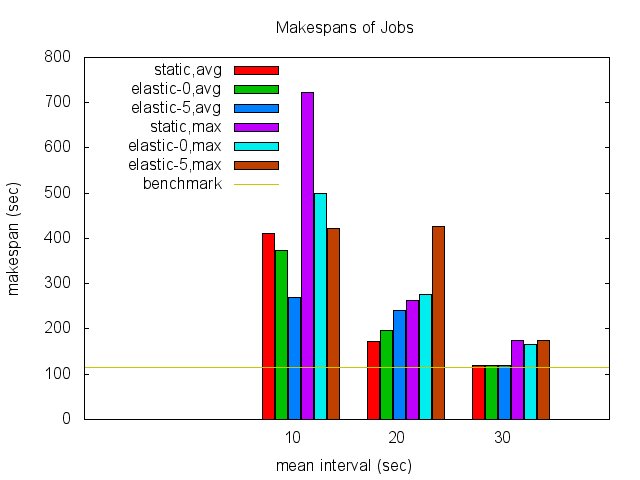
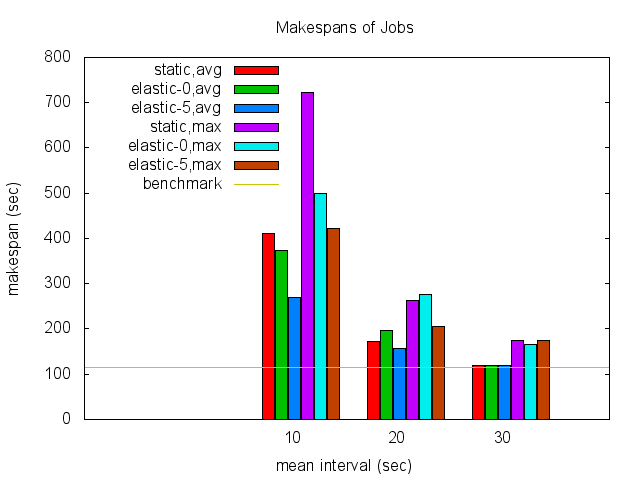
[DOC] experiment pictures and tables updates.

Changed region(s): [[0.5938, 0.4688, 0.7188, 0.7188]]

diff --git a/doc/Report/experimental-results.tex b/doc/Report/experimental-results.tex
@@ -28,11 +28,11 @@ described in Table \ref{table_joblist}:
 \end{table}
 
 For testing the provisioning policies, we created three different jobs
-with respect to these three files. Each job is to convert the H.264
+with respect to these three files. Each job is to convert a H.264
 1080p video file into an NTSC-DVD file. We then randomly generated
 three workloads, each of which comprises of 40 jobs. The job arrival
 times are generated using exponential distribution with three
-different parameters: 10, 20, and 30 seconds.
+different mean interval values: 10, 20, and 30 seconds.
 
 \begin{table}[!t]
   \caption{Workloads for Testings}
@@ -61,17 +61,16 @@ different parameters: 10, 20, and 30 seconds.
 % Benchmark Tests
 % ========================================
 \subsubsection{Benchmark Tests}
-First, we did some benchmark tests to measure the performance of DAS-4
-OpenNebula. The benchmark consists of four tests:
+First, we did four benchmark tests to measure the performance of DAS-4
+OpenNebula:
 
 \begin{enumerate}
-\item The first three tests are using ffmpeg to convert the three
-  video files separately. Each test was done by 20 times, and we
-  measure the job's running times (the total amount of time a job
-  spent on its execution).
-\item Another test is continuously allocating and releasing a VM
-  instance, in order to measure the overhead of allocating a VM
-  instance on DAS-4.
+\item The first three tests run the three jobs separately. Each
+  test was done 20 times, and we measure the job's running times
+  (the total amount of time a job spent on its execution).
+\item In another test, we continuously allocate and release a VM
+  instance for 20 times in order to measure the overhead of allocating
+  a VM instance on DAS-4.
 \end{enumerate}
 
 \begin{figure}[!t]
@@ -81,16 +80,19 @@ OpenNebula. The benchmark consists of four tests:
 \label{figure_jobbenchmark}
 \end{figure}
 
-As illustrated in Figure \ref{figure_jobbenchmark}, it is obvious that
-the performances of all jobs are almost the same, with an average of
-114.819 seconds. The maximum and minimum values are also close to the
-averages.
+As illustrated in Figure \ref{figure_jobbenchmark}, All three jobs takes
+almost the same amount of time to finish, with an average of 114.819 seconds, and there is no huge deviation from the average.
 
-For the VM allocation overhead test, we continuous allocate and
-release a VM instance for 20 times, and we measure its total
-preparation time, which is from the time it is allocated until the
-time it is accessible through SSH. The results are shown in Table
-\ref{table_vm_preparation}.
+\begin{figure}
+\centering
+\includegraphics[width=0.35\textwidth]{pictures/vm-preparation-model.png}
+\caption{VM Preparation Model}
+\label{figure_vm_preparation_model}
+\end{figure}
+
+Figure \ref{table_vm_preparation} shows the results of our the VM allocation
+overhead test. We measured the total preparation time of a VM, which is the
+time from it is allocated until it is accessible through \textsc{SSH}.
 
 \begin{table}
 \caption{Total Preparation Time of VMs}
@@ -108,9 +110,10 @@ Average OS Booting Time & $\approx$50 seconds \\
 \end{table}
 
 We only show the average values because the minimum and maximum values
-are close to it. The allocation time is from the VM instance is
-allocated until its state becomes RUNNING, and the OS booting time is
-the time after that and until this VM is accessible through SSH.
+are close. Figure \ref{figure_vm_preparation_model} illustrates the times
+we measure in this test. The allocation time is from the VM instance is
+allocated until its state becomes \staterunning, and the OS booting time is
+the time after that and until this VM is accessible through \textsc{SSH}.
 
 The results suggest that the DAS-4 OpenNebula is efficient in
 allocating a VM instance. It only takes approximately 10 seconds to
@@ -123,10 +126,10 @@ seconds to be able to use.
 % ========================================
 \subsection{Experiments on the Provisioning Policies}
 In this part, we use the three workloads to test the two policies. We
-will just call STATIC for static policy, and SE for simple elastic
-policy for short, and SE with threshold set to 0 will be denoted as
-SE-0. Figure \ref{figure_jobmakespan} illustrates the job makespans
-using different policies in each workload.
+will just call \textsc{static} for static policy, and \textsc{SE} for
+simple elastic policy for short, and \textsc{SE} with threshold set to
+0 will be denoted as \textsc{SE-0}. Figure \ref{figure_jobmakespan}
+illustrates the job makespans using different policies in each workload.
 
 \begin{figure}[!t]
 \centering
@@ -247,7 +250,7 @@ Workload & STATIC & SE-0 & SE-5 \\
 \hline
 \texttt{wl-10} & 1.54hrs (\$0.246) & 2.86hrs (\$0.458) & 2.73hrs (\$0.437) \\
 \hline
-\texttt{wl-20} & 1.44hrs (\$0.230) & 2.32hrs (\$0.371) & 2.13hrs (\$0.341) \\
+\texttt{wl-20} & 1.44hrs (\$0.230) & 2.32hrs (\$0.371) & 1.62hrs (\$0.259) \\
 \hline
 \texttt{wl-30} & 2.13hrs (\$0.341) & 2.18hrs (\$0.349) & 2.13hrs (\$0.341) \\
 \hline
